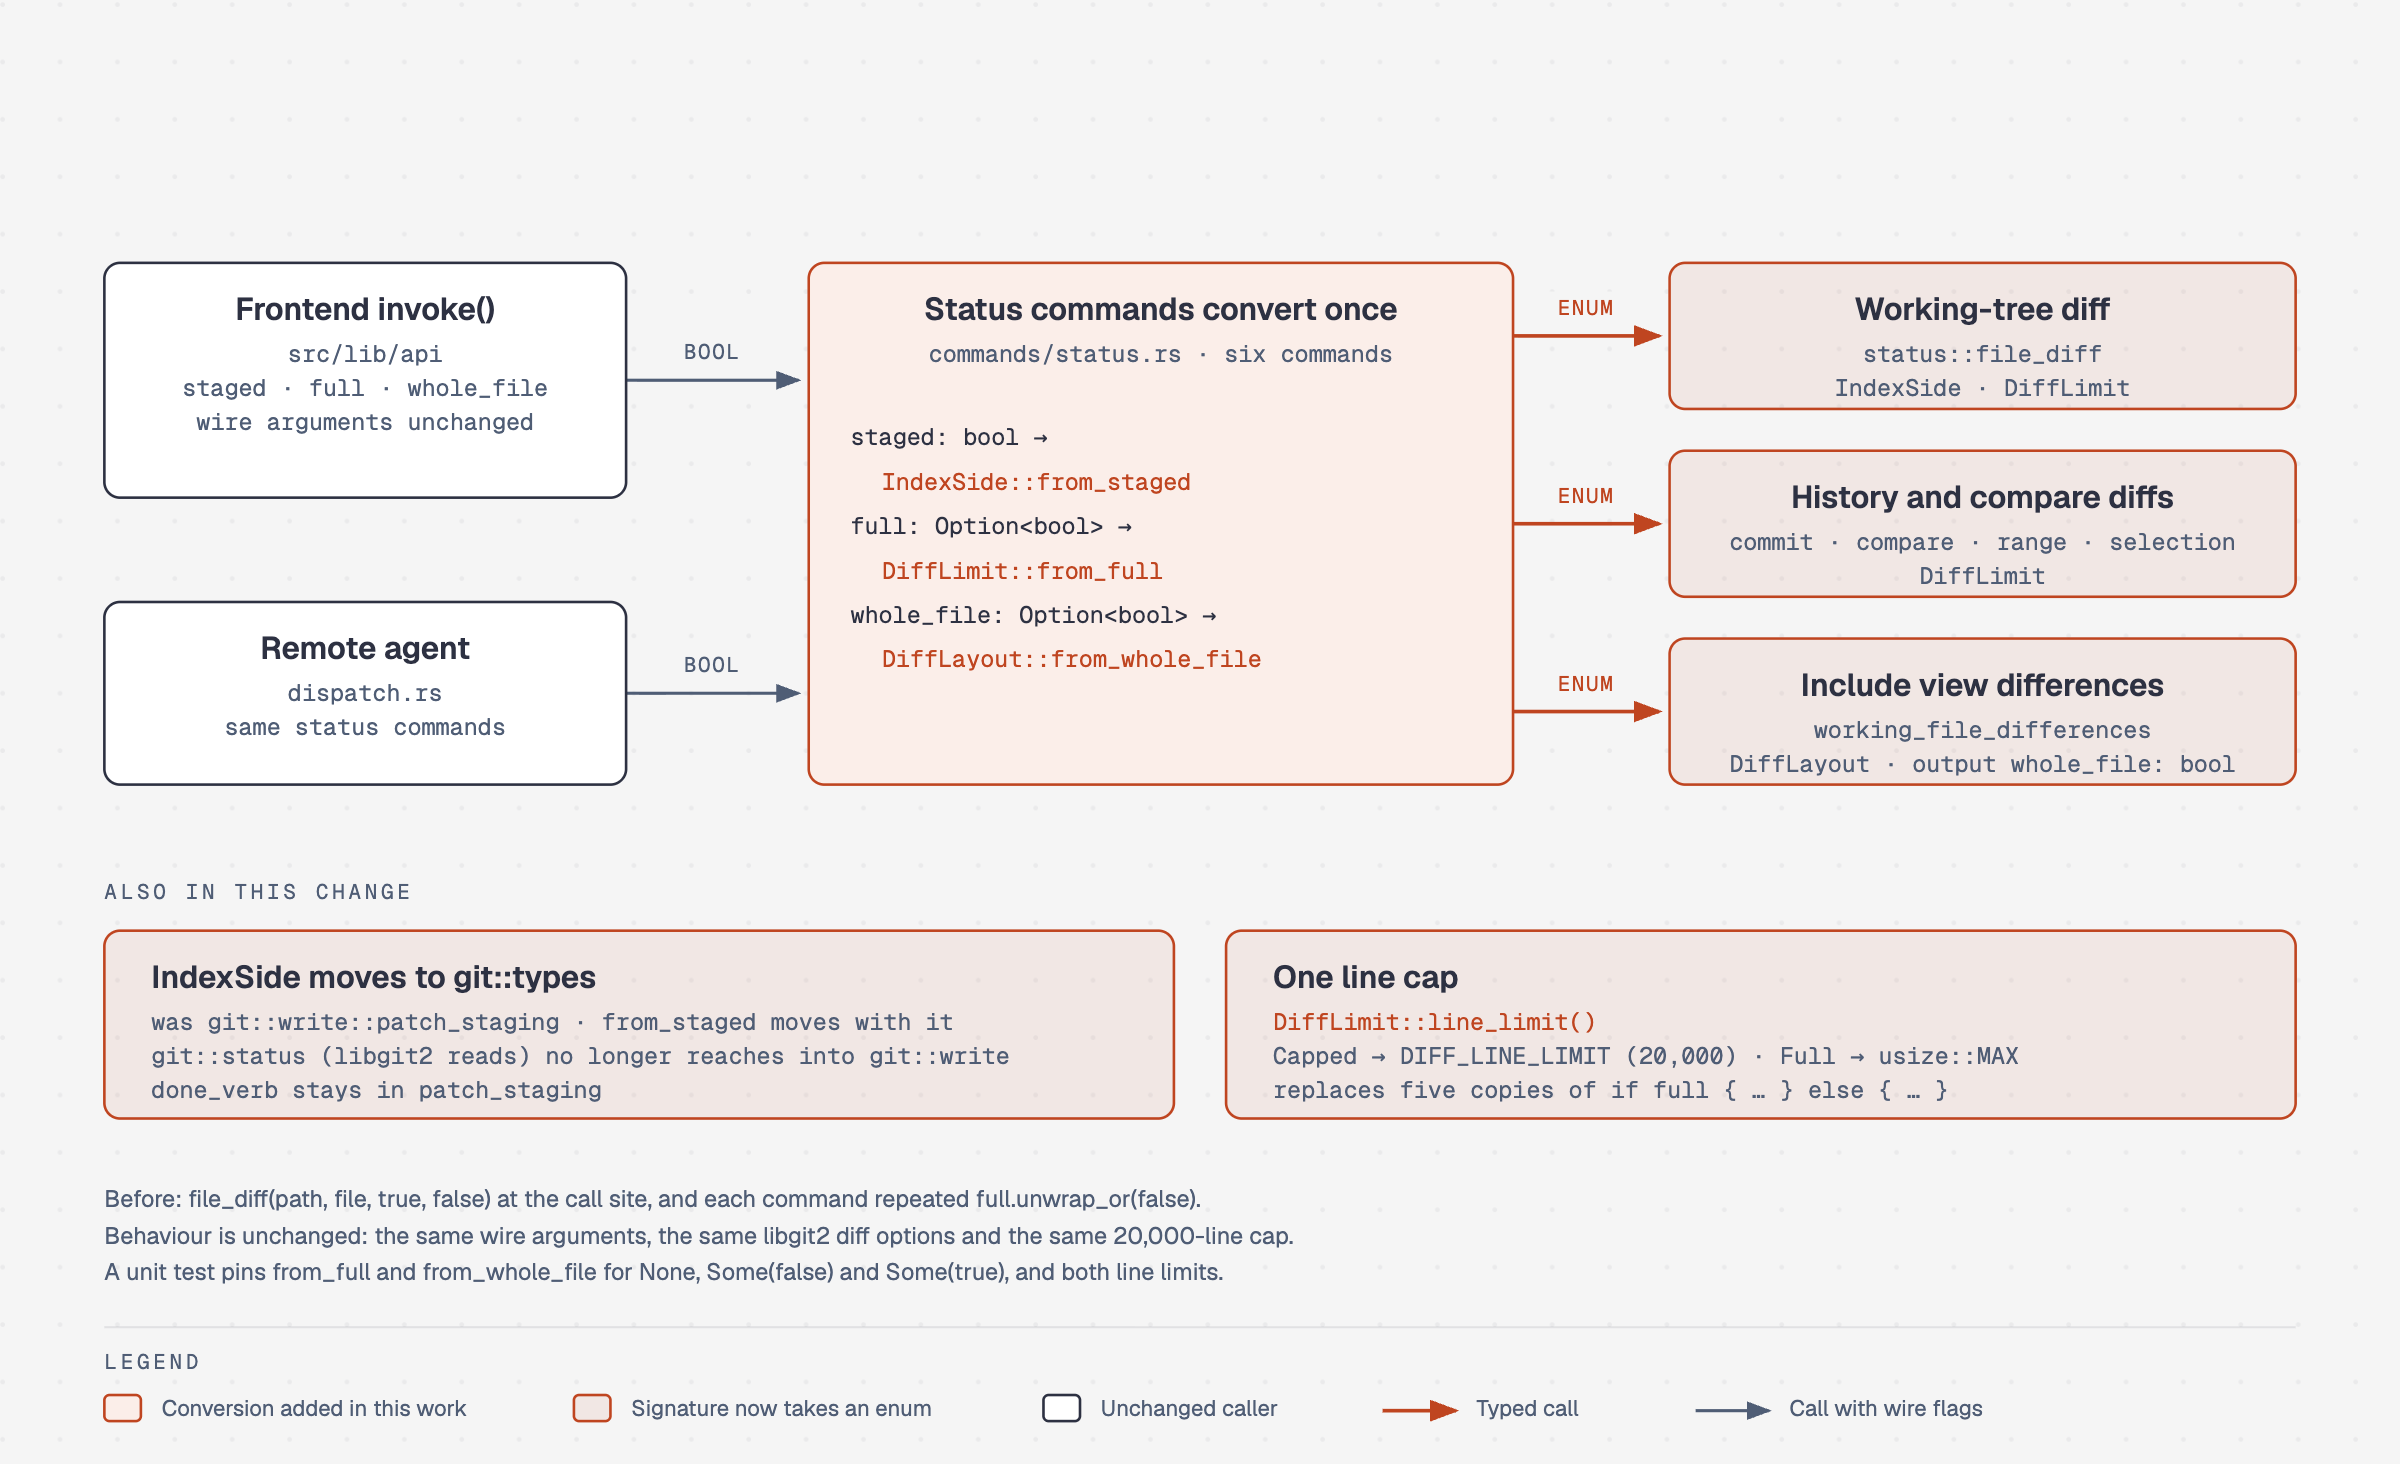
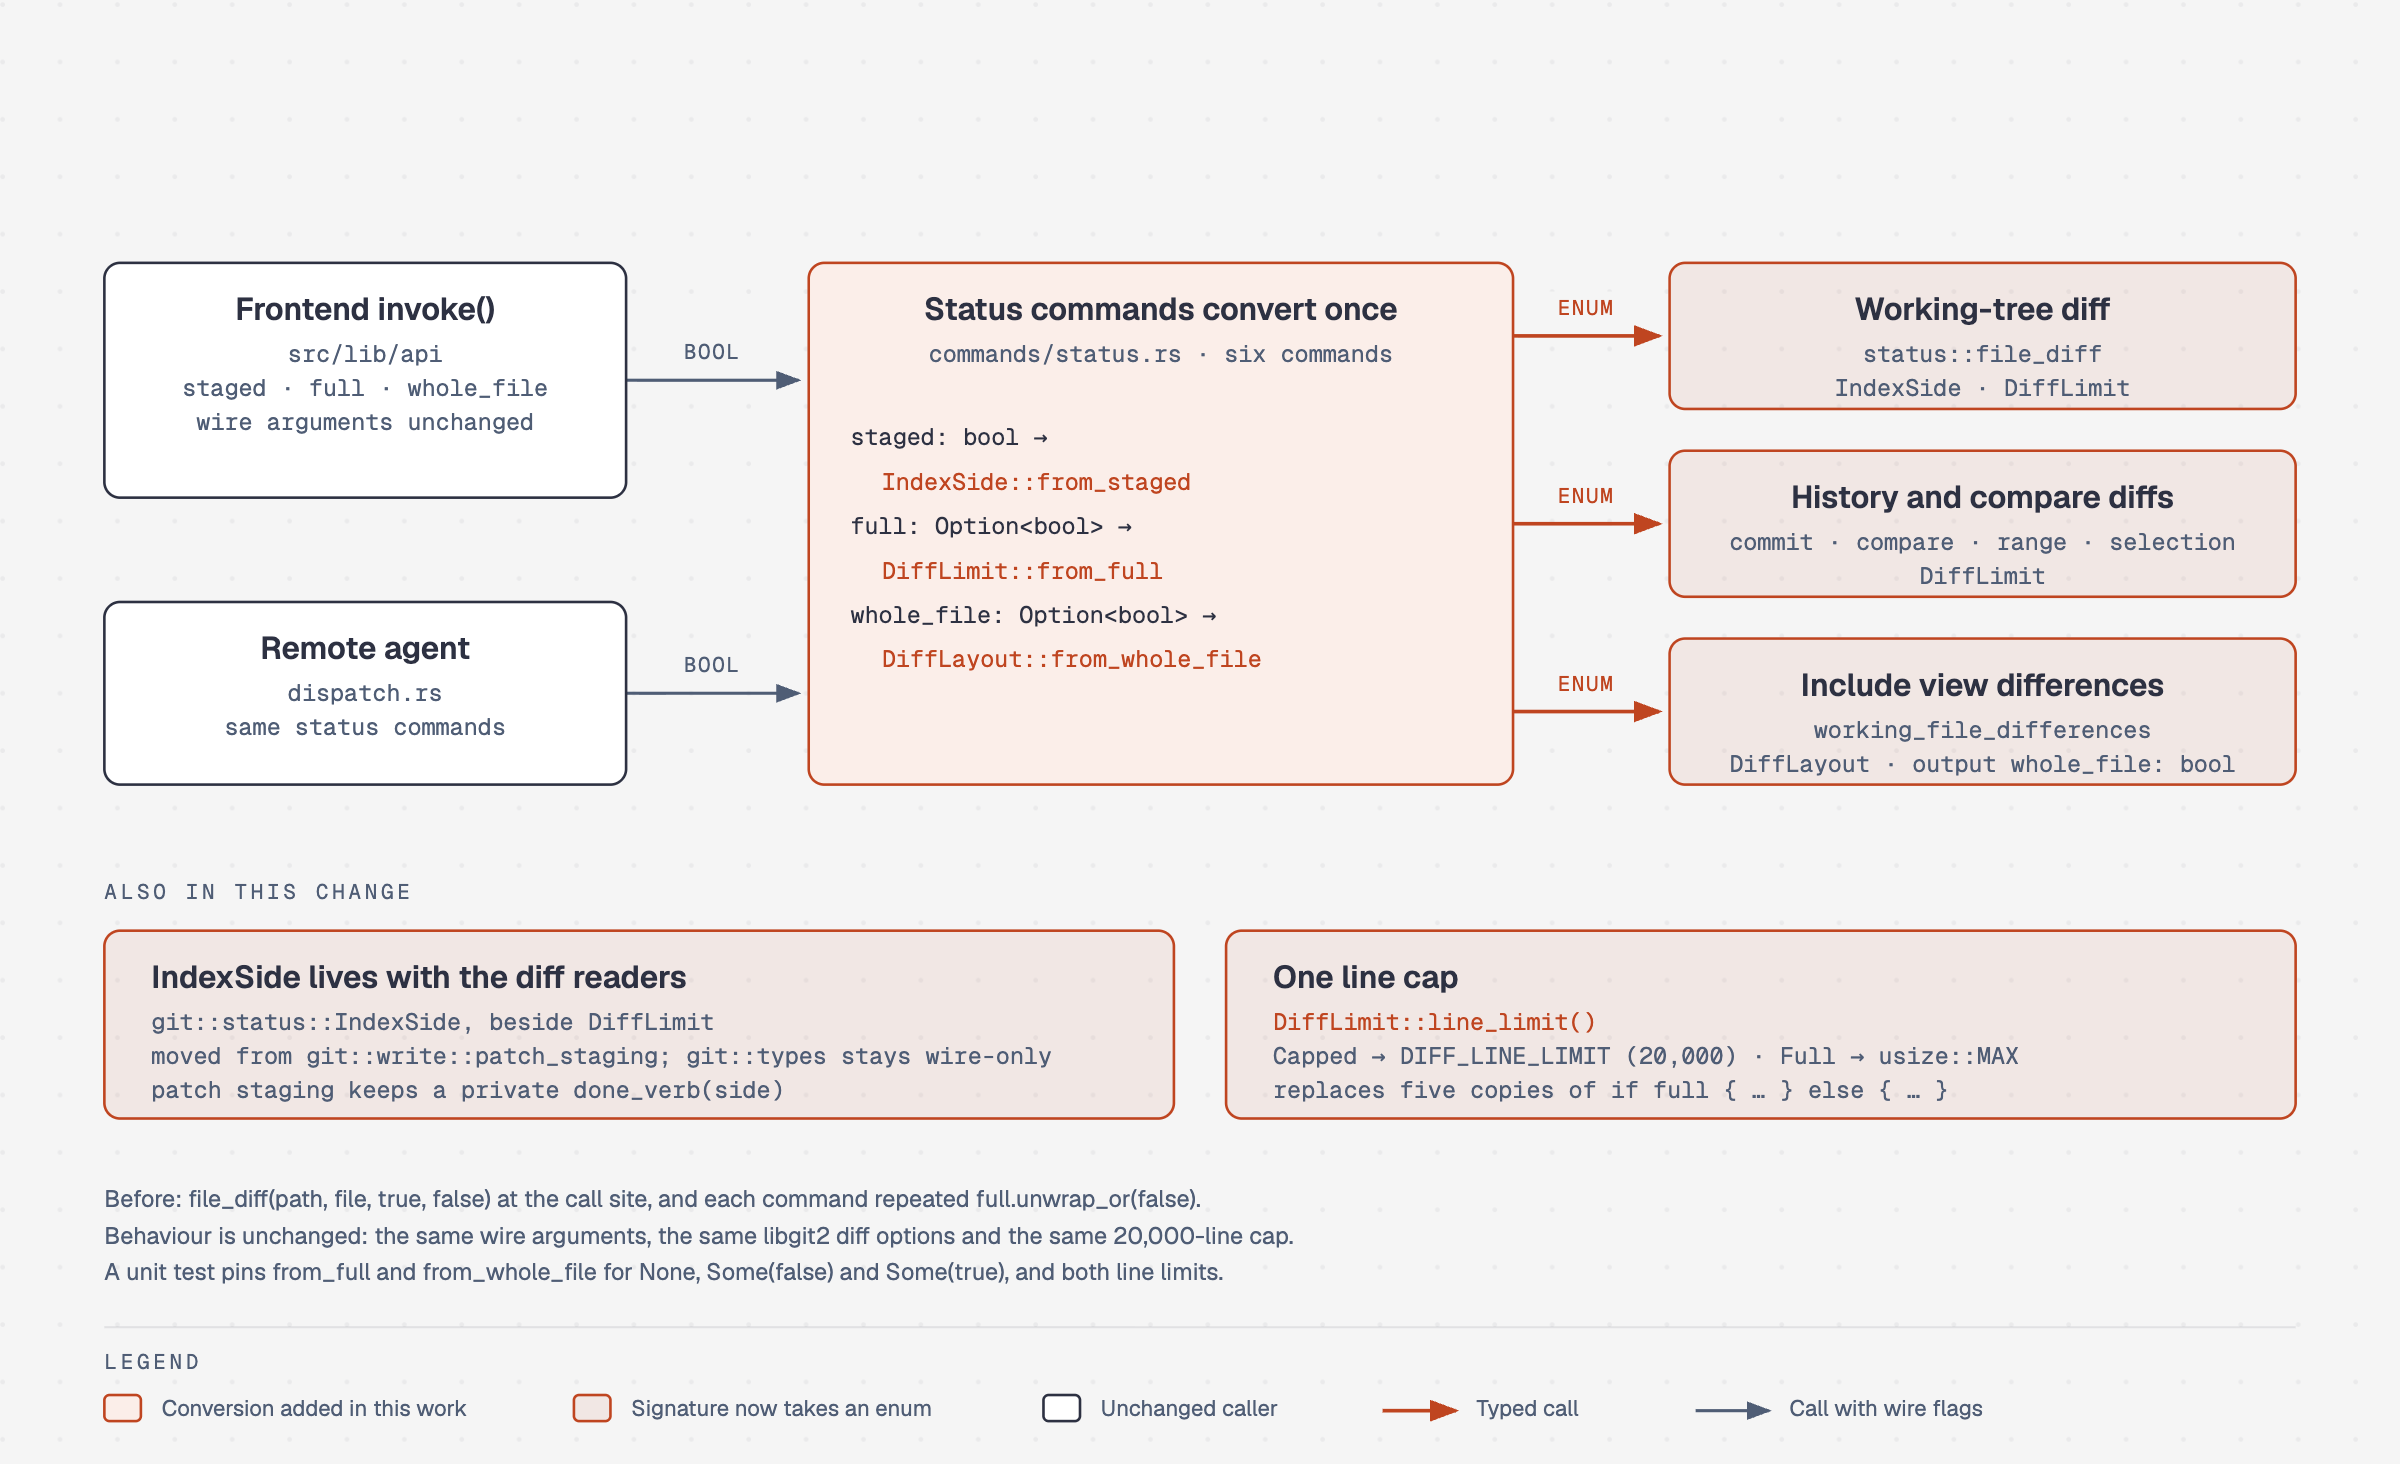
docs(diagrams): Show IndexSide living with the diff readers

Changed region(s): [[0.0625, 0.6455, 0.4375, 0.7684]]

diff --git a/docs/diagrams/rust-bool-modes-status-diffs/diff-flag-enums.html b/docs/diagrams/rust-bool-modes-status-diffs/diff-flag-enums.html
@@ -61,7 +61,7 @@
     <div class="diagram-container">
       <svg viewBox="0 0 920 560" xmlns="http://www.w3.org/2000/svg" role="img" aria-labelledby="diff-flag-enums-title diff-flag-enums-desc">
         <title id="diff-flag-enums-title">How the diff readers get their modes</title>
-        <desc id="diff-flag-enums-desc">The frontend and the remote agent still send staged, full and whole_file. The six status commands convert them once: staged into IndexSide, full into DiffLimit and whole_file into DiffLayout. The working-tree diff takes IndexSide and DiffLimit, the history and compare diffs take DiffLimit, and the Include view differences take DiffLayout while the output whole_file stays a bool. IndexSide moved from git::write::patch_staging to git::types, and DiffLimit::line_limit replaces five copies of the line-cap expression. Behaviour is unchanged.</desc>
+        <desc id="diff-flag-enums-desc">The frontend and the remote agent still send staged, full and whole_file. The six status commands convert them once: staged into IndexSide, full into DiffLimit and whole_file into DiffLayout. The working-tree diff takes IndexSide and DiffLimit, the history and compare diffs take DiffLimit, and the Include view differences take DiffLayout while the output whole_file stays a bool. IndexSide moved from git::write::patch_staging to git::status beside DiffLimit, and DiffLimit::line_limit replaces five copies of the line-cap expression. Behaviour is unchanged.</desc>
         <defs>
           <pattern id="dots" width="22" height="22" patternUnits="userSpaceOnUse">
             <circle cx="1" cy="1" r="0.9" fill="rgba(45,49,66,0.10)"/>
@@ -119,10 +119,10 @@
         <text x="760" y="295" fill="#4f5d75" font-size="9" font-family="'Geist Mono', monospace" text-anchor="middle">DiffLayout · output whole_file: bool</text>
         <text x="40" y="344" fill="#4f5d75" font-size="8" font-family="'Geist Mono', monospace" letter-spacing="0.18em">ALSO IN THIS CHANGE</text>
         <rect x="40" y="356" width="410" height="72" rx="6" fill="rgba(191,69,32,0.08)" stroke="#bf4520" stroke-width="1"/>
-        <text x="58" y="378" fill="#2d3142" font-size="12" font-weight="600" font-family="'Geist', sans-serif">IndexSide moves to git::types</text>
-        <text x="58" y="394" fill="#4f5d75" font-size="9" font-family="'Geist Mono', monospace">was git::write::patch_staging · from_staged moves with it</text>
-        <text x="58" y="407" fill="#4f5d75" font-size="9" font-family="'Geist Mono', monospace">git::status (libgit2 reads) no longer reaches into git::write</text>
-        <text x="58" y="420" fill="#4f5d75" font-size="9" font-family="'Geist Mono', monospace">done_verb stays in patch_staging</text>
+        <text x="58" y="378" fill="#2d3142" font-size="12" font-weight="600" font-family="'Geist', sans-serif">IndexSide lives with the diff readers</text>
+        <text x="58" y="394" fill="#4f5d75" font-size="9" font-family="'Geist Mono', monospace">git::status::IndexSide, beside DiffLimit</text>
+        <text x="58" y="407" fill="#4f5d75" font-size="9" font-family="'Geist Mono', monospace">moved from git::write::patch_staging; git::types stays wire-only</text>
+        <text x="58" y="420" fill="#4f5d75" font-size="9" font-family="'Geist Mono', monospace">patch staging keeps a private done_verb(side)</text>
         <rect x="470" y="356" width="410" height="72" rx="6" fill="rgba(191,69,32,0.08)" stroke="#bf4520" stroke-width="1"/>
         <text x="488" y="378" fill="#2d3142" font-size="12" font-weight="600" font-family="'Geist', sans-serif">One line cap</text>
         <text x="488" y="394" fill="#bf4520" font-size="9" font-family="'Geist Mono', monospace">DiffLimit::line_limit()</text>
